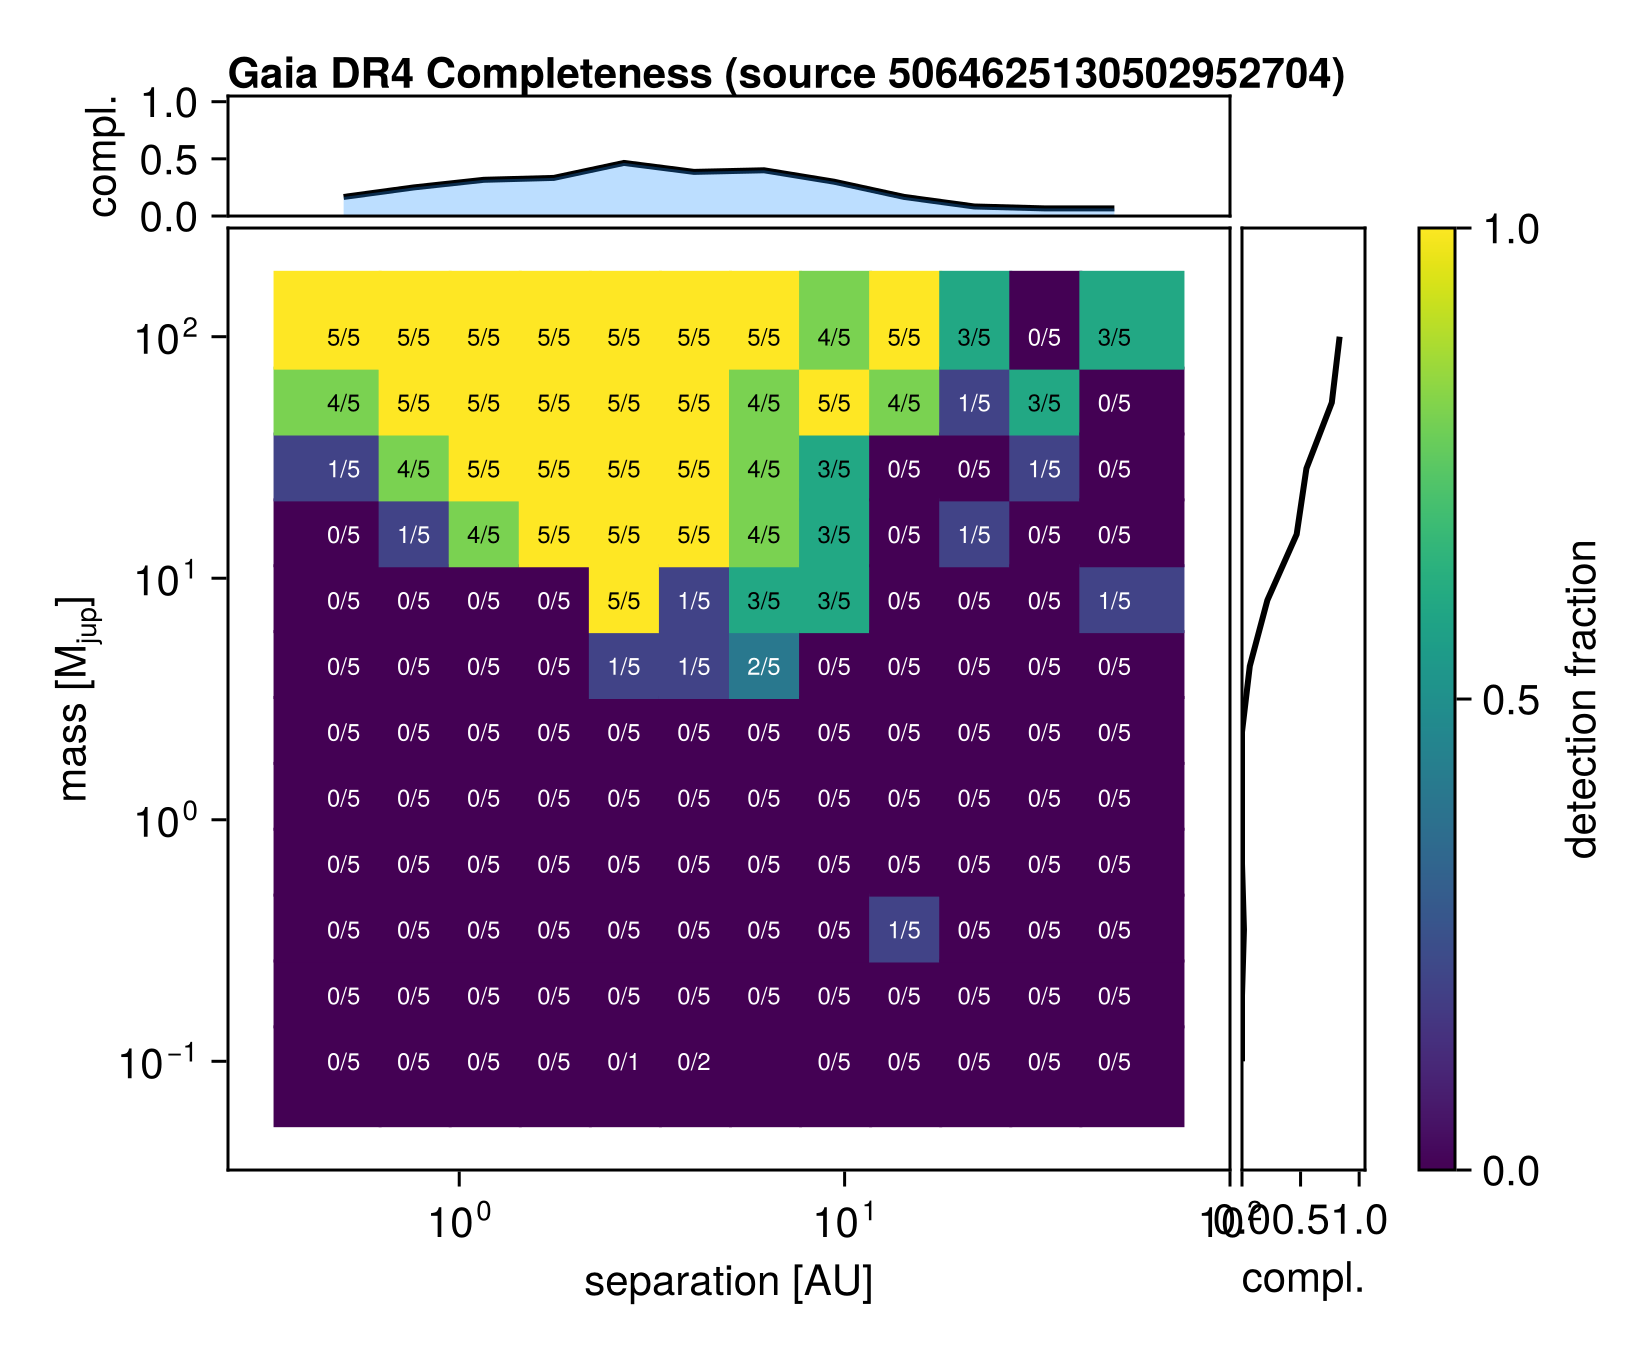
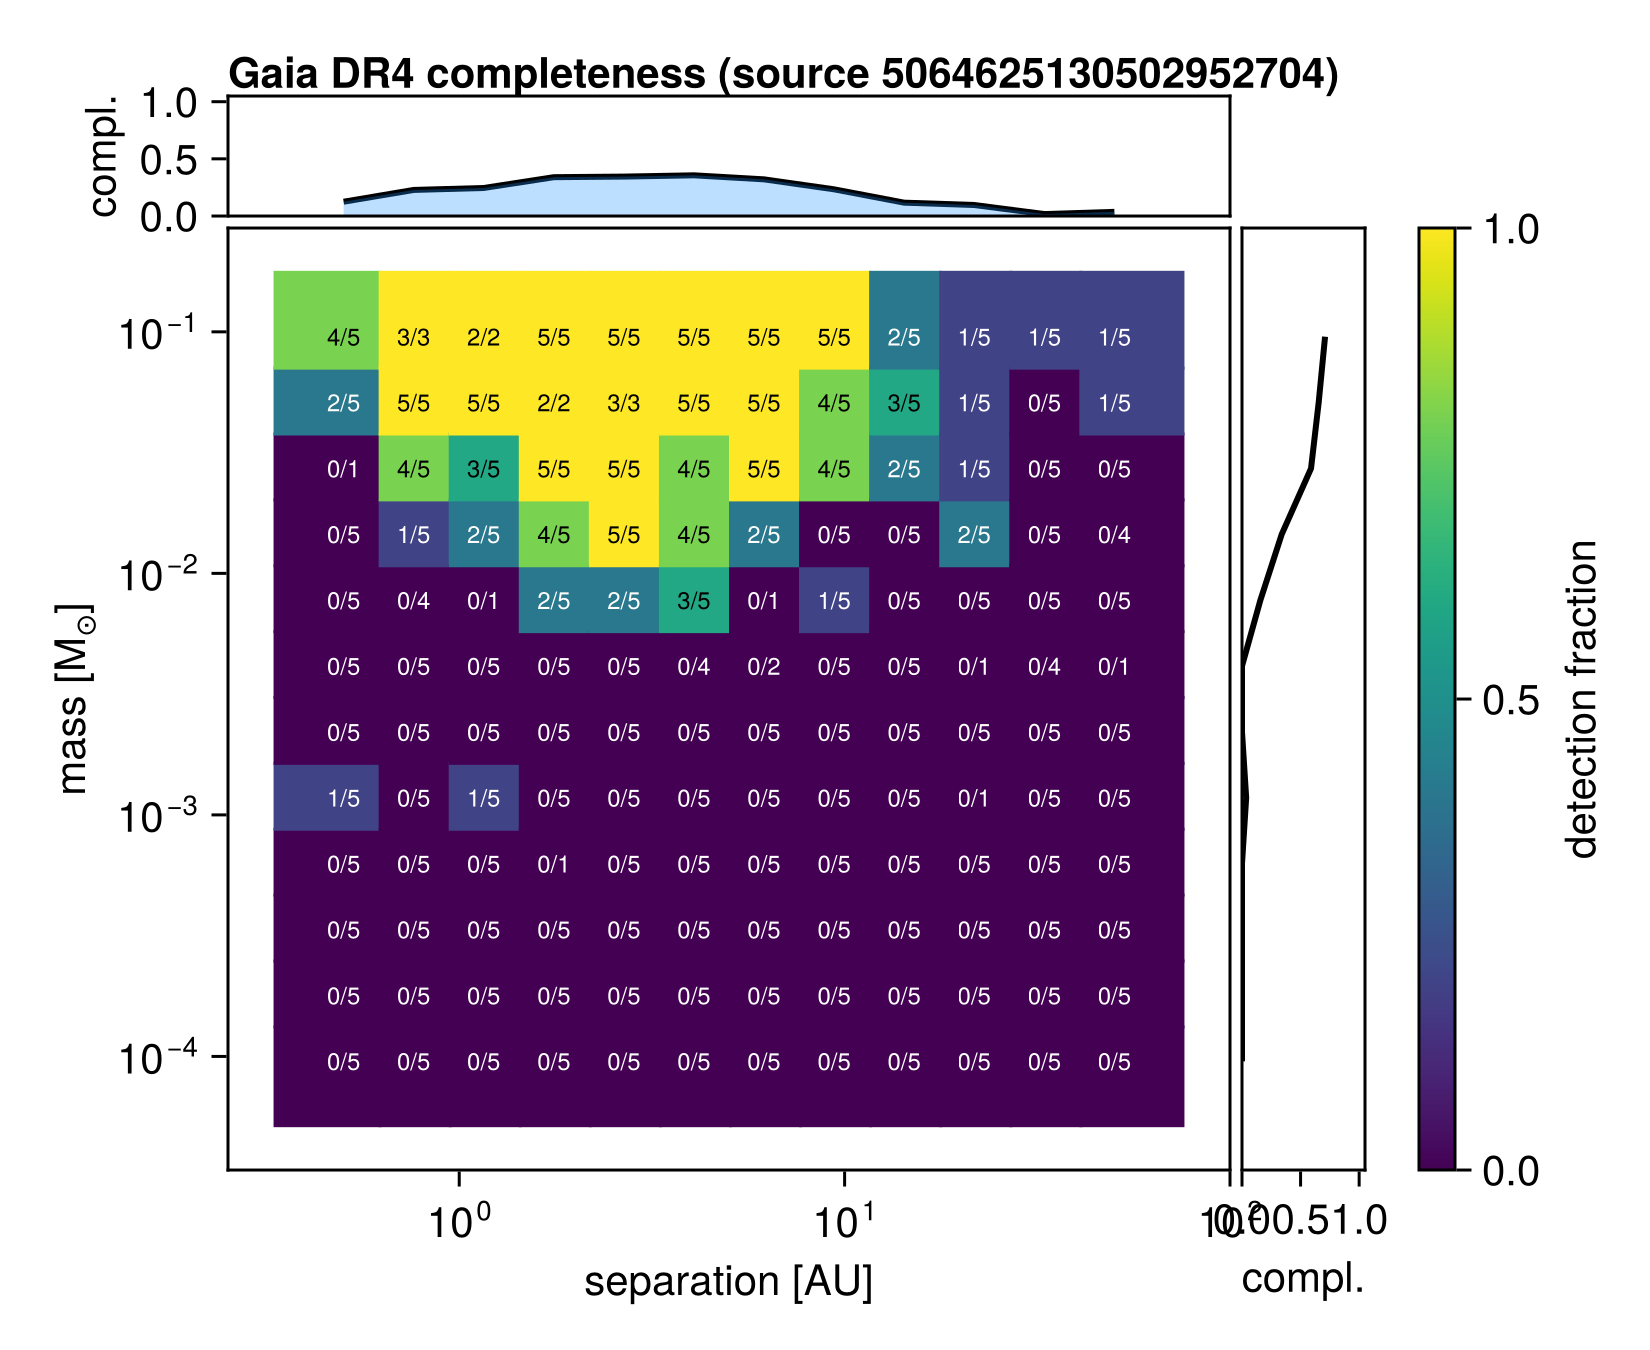
completeness: regenerate the DR4 map with the calibrated noise budget
Full 12x12x5 grid run as SLURM array 54643717 on fir (720 trials, all
completed), using the v2-ported examples/completeness_dr4/ with
sigma_transit_true = 0.153 mas from g23h_scan_uncertainty. Replaces the
figure computed with the old invented 0.069 mas budget (2.2x optimistic,
M_Jup axis) and retires the staleness warning added during the port.

Claude-Session: https://claude.ai/code/session_01LXSvZifVoETVus4CFS3i1D

diff --git a/docs/src/completeness.md b/docs/src/completeness.md
@@ -288,15 +288,12 @@ likelihood's error bar are set to.
 
 ![Gaia DR4 Completeness Map](assets/dr4_completeness_map_clean.png)
 
-!!! warning "This figure predates the calibrated noise model"
-    The map above was computed with the example's earlier, *invented* noise
-    budget — σ_att = σ_AL = σ_cal = 0.04 mas, so 0.069 mas per transit — which is
-    2.2× more precise than this star's measured 0.153 mas. It therefore
-    **overstates** the sensitivity, and its mass axis is in M_Jup rather than the
-    M⊙ that v9 plots. Read it for the shape, not for a threshold; rerun
-    `examples/completeness_dr4/` to get a map you can quote.
+The map above was computed with the full 12 × 12 × 5-trial grid in
+`examples/completeness_dr4/`, using this star's calibrated per-transit noise
+(σ_transit_true = 0.153 mas). With five injection trials per cell, individual
+cells carry ±1-trial noise; smooth contours need more trials per cell.
 
-The shape is the part that does not depend on the noise scale:
+The shape follows the physics:
 
 - **Peak sensitivity at 1–5 AU** for massive companions, where the astrometric
   signal is largest relative to the DR4 time baseline (~5.3 years for this star)
